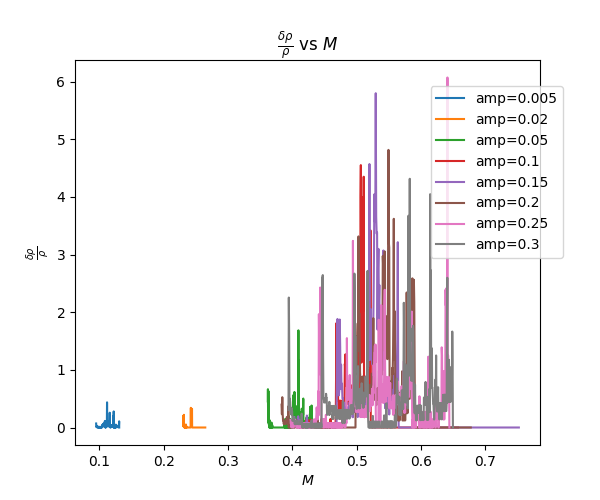
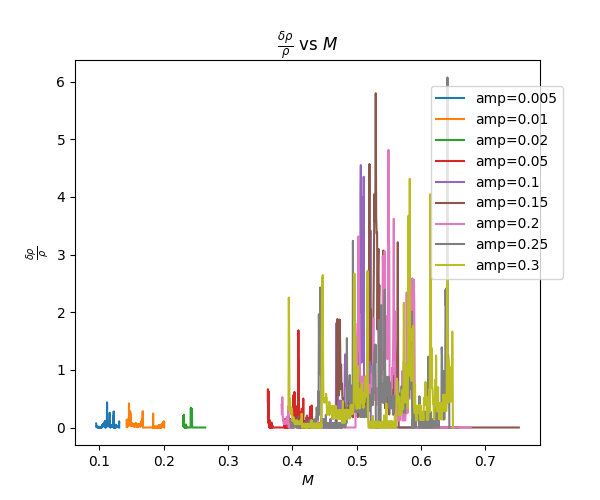
Added an extra plot

diff --git a/density_mach_multiple.py b/density_mach_multiple.py
@@ -4,8 +4,8 @@ import matplotlib.pyplot as plt
 #Declare all parameters and filenames, file location
 
 #Load data files
-amp=np.array((0.005,0.020,0.05,0.1,0.15,0.2,0.25,0.3))
-t_start=np.array((10.0,5.0,2.0,2.0,2.0,2.0,2.0,2.0))
+amp=np.array((0.005,0.010,0.020,0.05,0.1,0.15,0.2,0.25,0.3))
+t_start=np.array((10.0,7.0,5.0,2.0,2.0,2.0,2.0,2.0,2.0))
 fig, ax = plt.subplots()
 for i1 in xrange(0,np.shape(amp)[0]):
 	filedir='/mnt/lustre/ug4/ugrajs/fiducial_runs/256/amp'+str(int(amp[i1]*1000)).rjust(3,'0')+'/'
